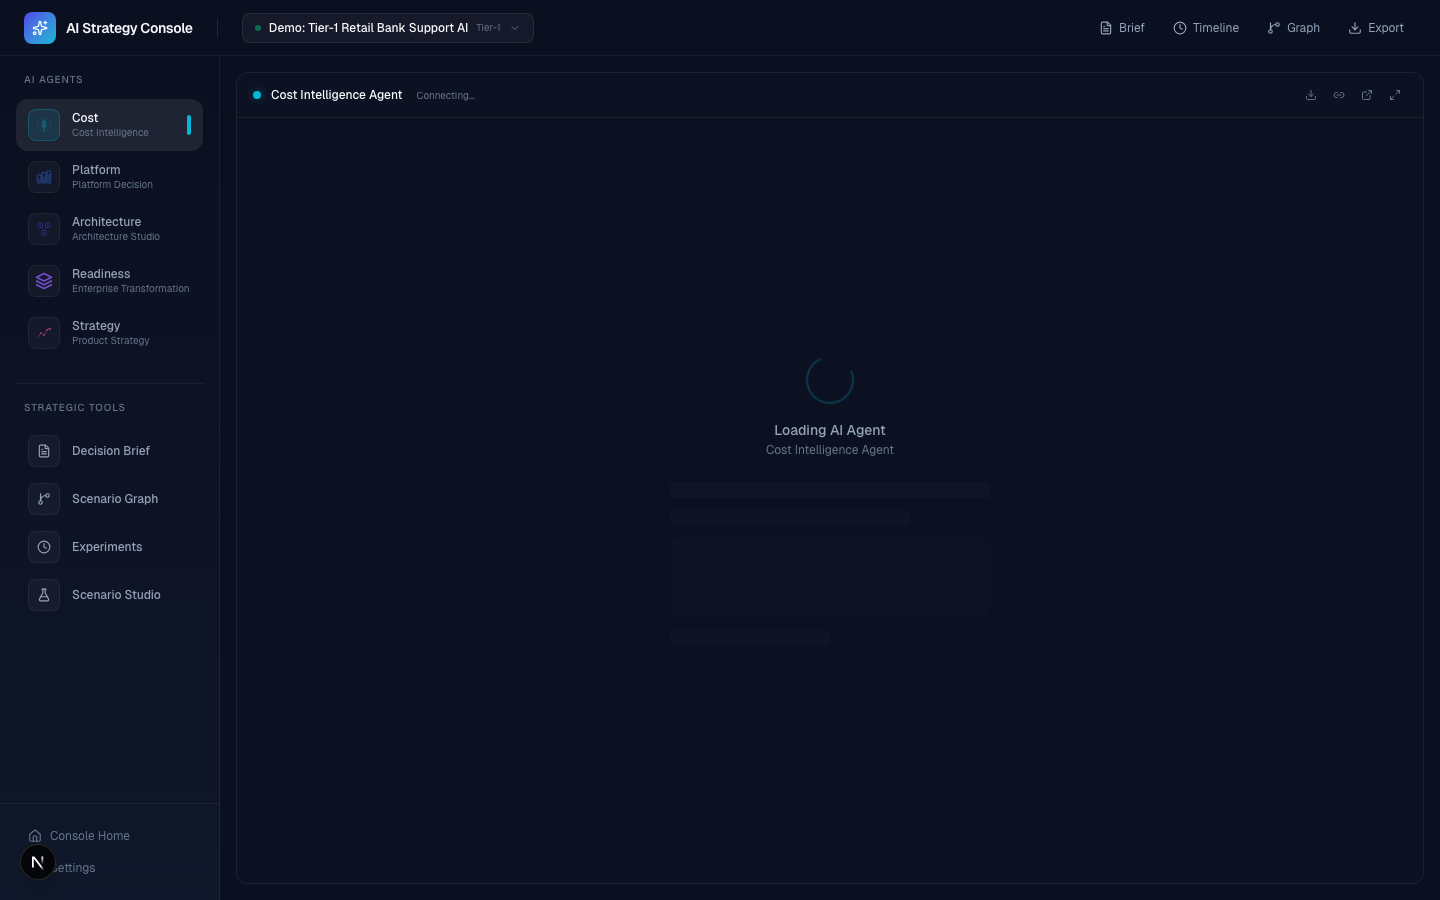
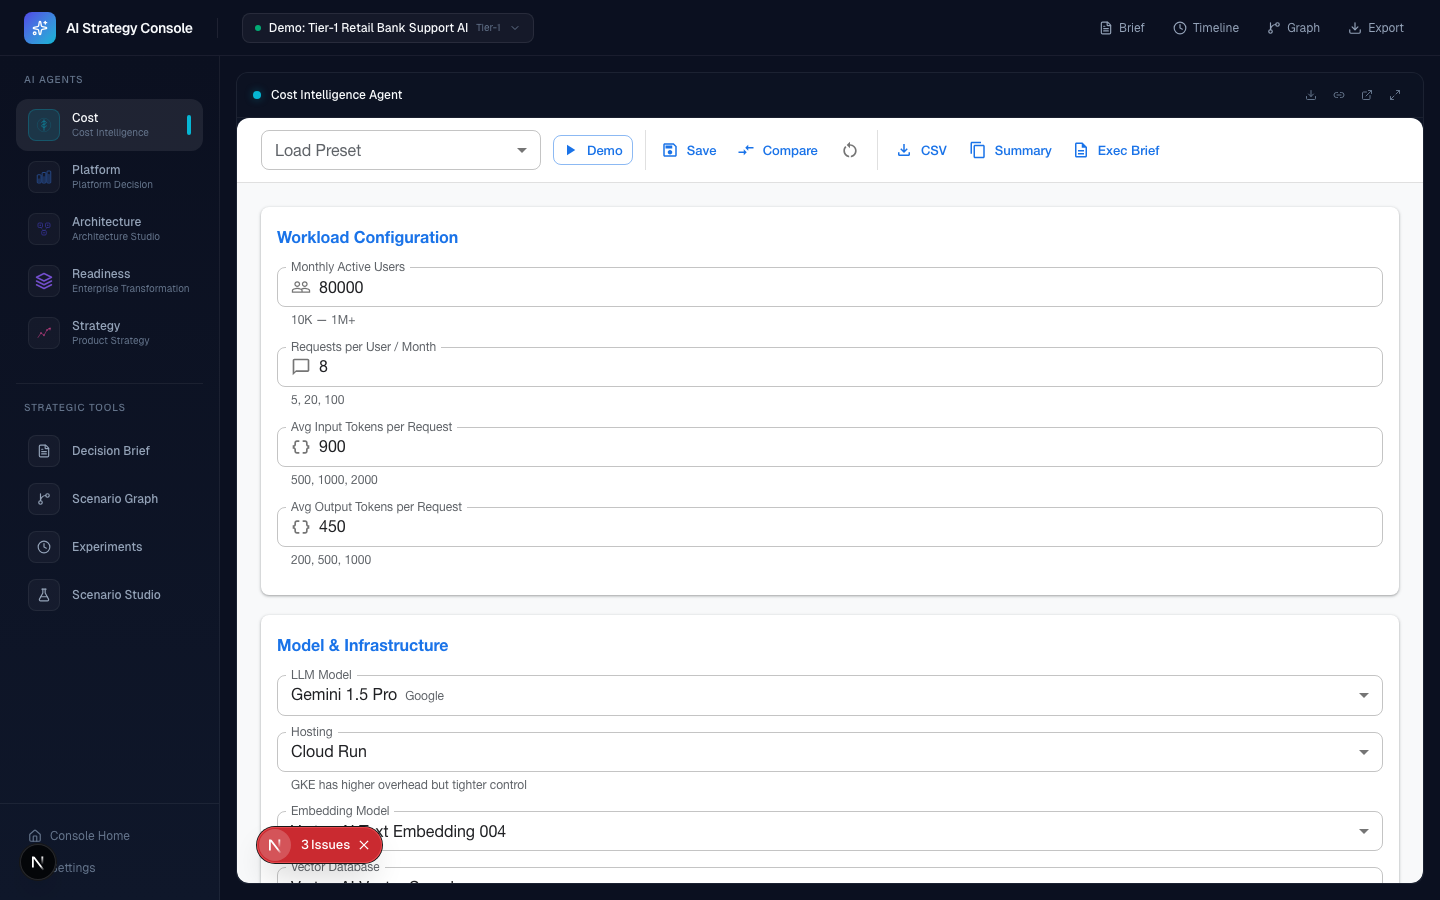
Add full agent screenshots with live data from all 5 tools
Recaptured all module embed screenshots with dev:all running —
Cost, Platform, Architecture, Readiness, and Strategy agents
now show real tool UI with data instead of loading skeletons.

Made-with: Cursor

diff --git a/README.md b/README.md
@@ -44,10 +44,30 @@ Decision history log — every agent run creates a timestamped, replayable exper
 
 ![Experiment Timeline](docs/screenshots/06-experiment-timeline.png)
 
-### Module Embedding (Agent Frame)
-Seamless iframe embedding with loading skeleton, postMessage bridge, copy link, export, and fullscreen — tools feel native inside the console.
+### Cost Intelligence Agent (embedded)
+Full 6-layer cost simulator running inside the console — workload configuration, model comparison, architecture diagrams, and optimization insights.
 
-![Module Embed](docs/screenshots/07-module-embed-cost.png)
+![Cost Agent](docs/screenshots/07-module-embed-cost.png)
+
+### Platform Decision Agent (embedded)
+5 evaluation engines comparing Vertex AI vs Azure OpenAI vs AWS Bedrock with weighted scoring, capability matrix, lock-in analysis, and migration estimator.
+
+![Platform Agent](docs/screenshots/08-module-embed-platform.png)
+
+### Architecture Studio Agent (embedded)
+Generate production-grade Vertex AI architectures with diagrams, blueprints, security plans, and cost estimates for 10 AI use cases across 3 tiers.
+
+![Architecture Agent](docs/screenshots/09-module-embed-architecture.png)
+
+### Enterprise Transformation Agent (embedded)
+6-step guided AI readiness assessment — institution profiling, capability scoring, risk landscape, maturity gauge, adoption roadmap, and investment planning.
+
+![Readiness Agent](docs/screenshots/10-module-embed-readiness.png)
+
+### Product Strategy Agent (embedded)
+Codelabs-style strategy lab — problem definition, product concept, market positioning, friction analysis, pricing models, and phased launch timeline.
+
+![Strategy Agent](docs/screenshots/11-module-embed-strategy.png)
 
 ---
 
